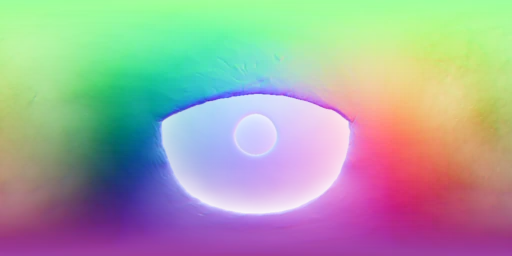
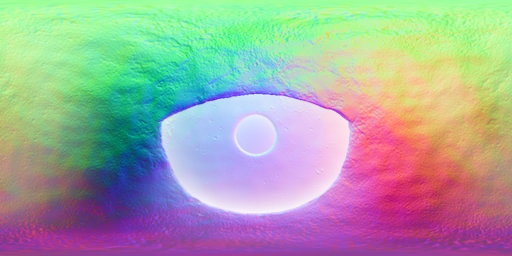
Eye cursor: clay relief and real glaze
Bump relief baked into the eyeball's surface (hand-built lumps, raised glaze
pools, pitted specks, the pupil as a hole), the model's own roughness as a
gloss map, and a window-shaped reflection that breaks up over the bumps, so
it reads as glazed clay rather than a smooth ball. ~1.6ms per redraw on retina.

Claude-Session: https://claude.ai/code/session_011Rvs1XXS9tQs76fALikvEL

diff --git a/js/eye-cursor.js b/js/eye-cursor.js
@@ -184,13 +184,31 @@
         var wnx = m00 * nx + m01 * ny + m02 * nz, wny = m10 * nx + m11 * ny + m12 * nz, wnz = m20 * nx + m21 * ny + m22 * nz;
         var nl = Math.hypot(wnx, wny, wnz) || 1; wnx /= nl; wny /= nl; wnz /= nl;
         // keep the outline round: lean the silhouette normals toward the sphere
-        var k = 1 - wz * wz; wnx += (wx - wnx) * k * 0.6; wny += (wy - wny) * k * 0.6; wnz += (wz - wnz) * k * 0.6;
+        var k = 1 - wz * wz; k = k * k * 0.5; wnx += (wx - wnx) * k; wny += (wy - wny) * k; wnz += (wz - wnz) * k;
         if (shadow) { col[0] *= 1 - shadow; col[1] *= 1 - shadow * 1.05; col[2] *= 1 - shadow * 1.1; }
-        shade(wnx, wny, wnz, SHP[t + 3] > LID_EDGE ? 0.5 : 0.6, col, 0.72);
+        glaze(wnx, wny, wnz, COL[t + 3] / 255, col, 0.68);
         px[o] = col[0]; px[o + 1] = col[1]; px[o + 2] = col[2]; px[o + 3] = alpha * 255;
       }
     }
     ctx.putImageData(img, 0, 0);
+  }
+
+  // Glazed clay: the gloss map decides how tight and bright the shine is; a window-shaped
+  // reflection (like the white streaks in the photos) breaks up over the bumps, which is
+  // most of what makes the surface read as 3D.
+  function glaze(nx, ny, nz, g, out, amb) {
+    var diff = nx * L[0] + ny * L[1] + nz * L[2]; if (diff < 0) diff = 0;
+    var k = amb + (1.1 - amb) * diff;
+    var sh = nx * H[0] + ny * H[1] + nz * H[2];
+    var spec = sh > 0 ? Math.pow(sh, 30 + 160 * g) * (0.15 + 0.85 * g) + Math.pow(sh, 10) * 0.05 : 0;
+    // mirror direction for a viewer straight ahead
+    var rx = 2 * nz * nx, ry = 2 * nz * ny;
+    var ex = Math.abs(rx + 0.4) - 0.2, ey = Math.abs(ry - 0.46) - 0.13, soft = 0.035 + 0.05 * (1 - g);
+    var win = Math.max(0, Math.min(1, -ex / soft)) * Math.max(0, Math.min(1, -ey / soft));
+    if (win > 0) { var bar = Math.abs(rx + 0.4); if (bar < 0.018) win *= bar / 0.018; }   // the window's middle bar
+    spec += win * (0.25 + 0.6 * g) * (nz > 0 ? 1 : 0);
+    var rim = 1 - nz; rim = rim * rim * rim * 0.22 * g;                                  // glaze sheen at the edge
+    out[0] = out[0] * k + 255 * (spec + rim); out[1] = out[1] * k + 255 * (spec + rim); out[2] = out[2] * k + 250 * (spec + rim);
   }
 
   function render() {
